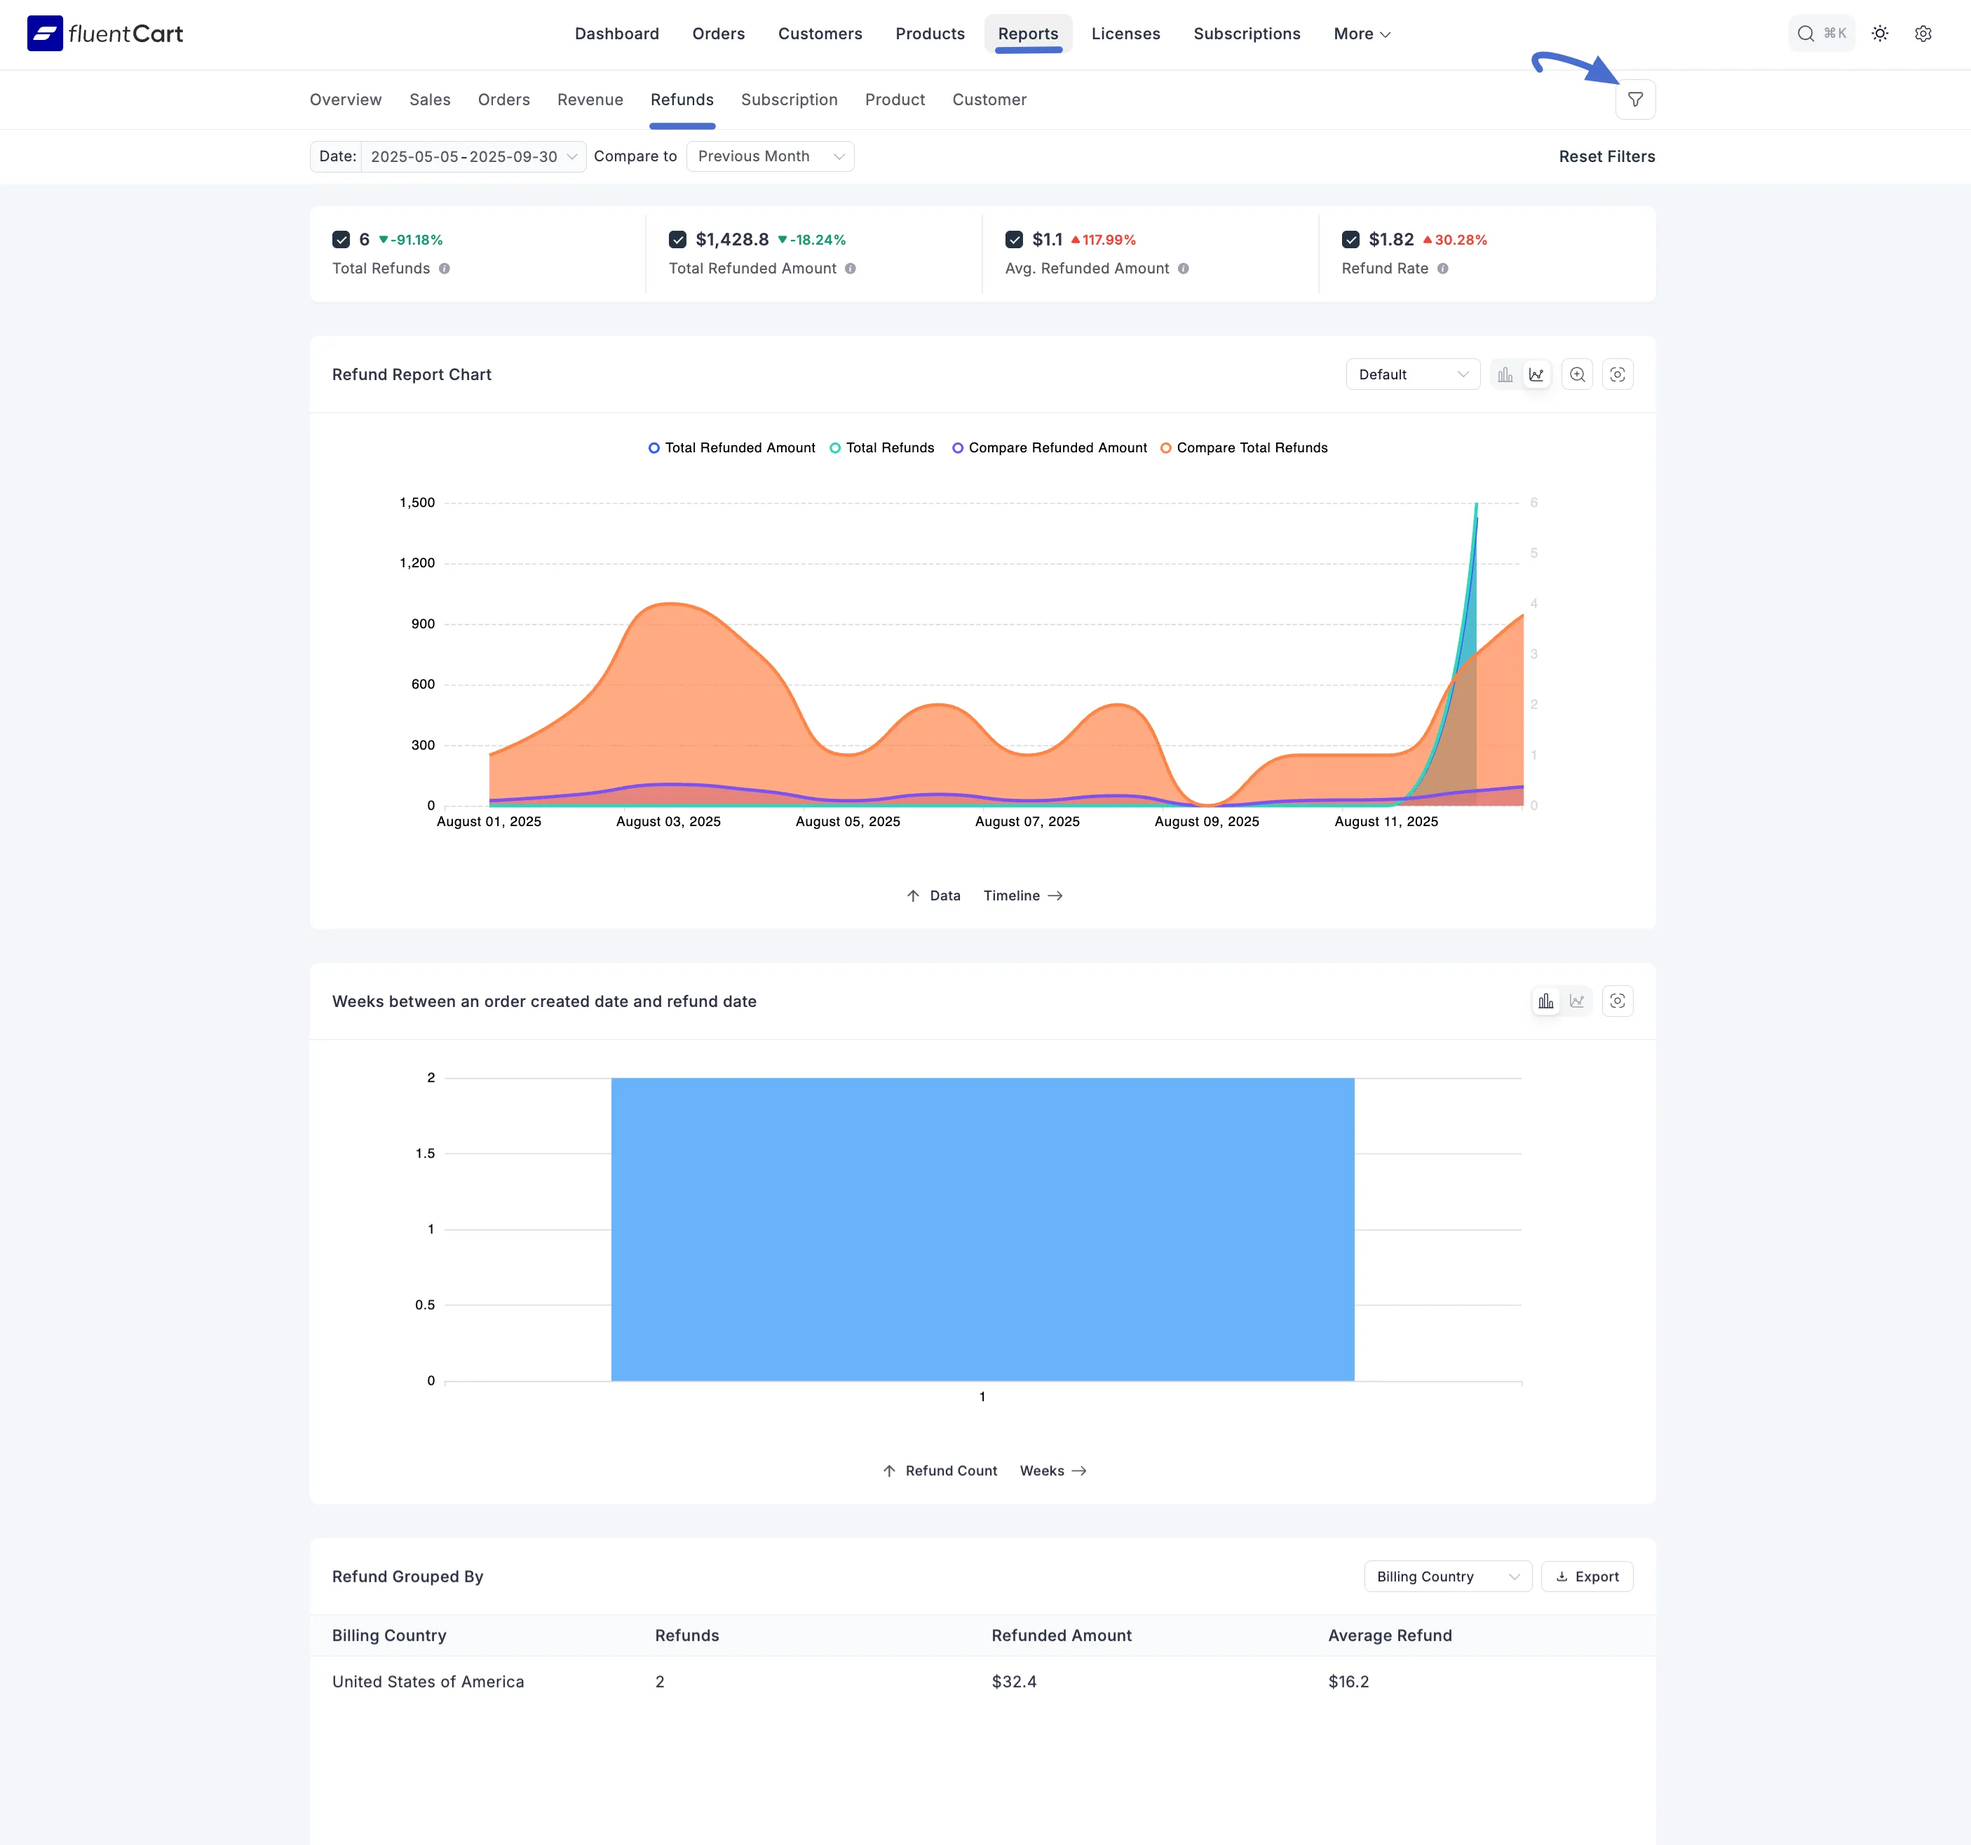
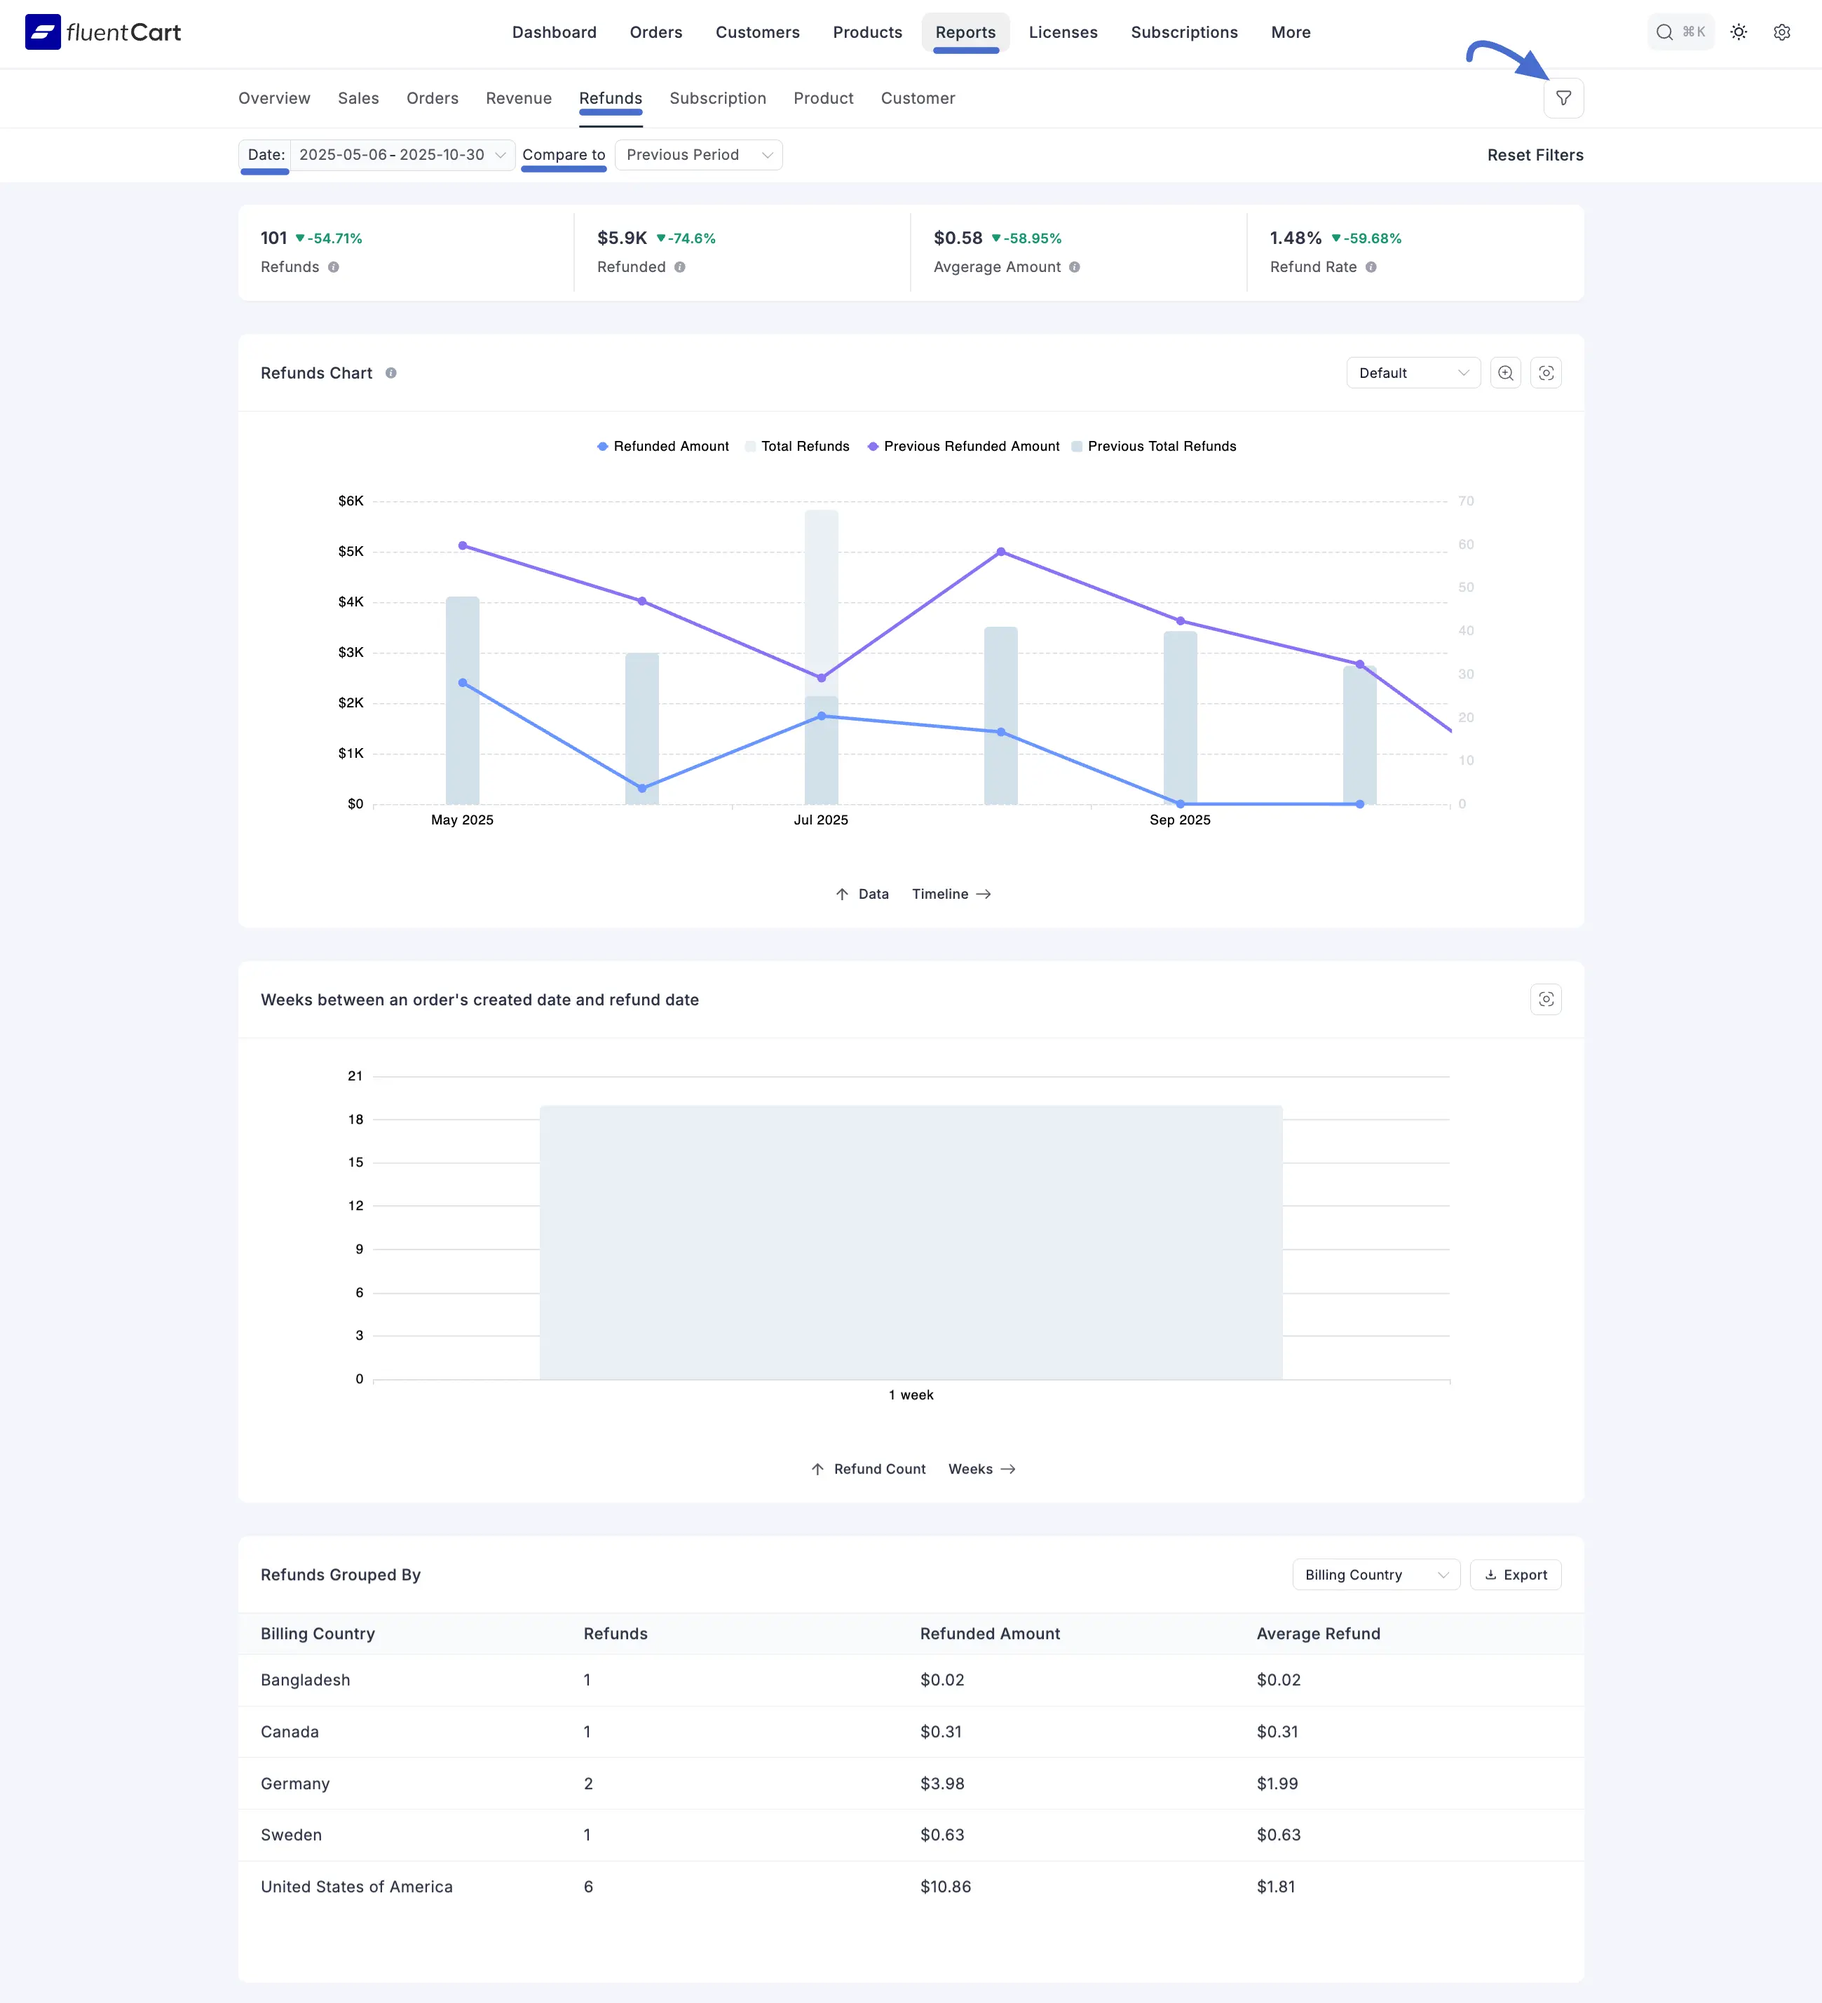
update Refund Report doc
Refunds Report doc description update and image change

diff --git a/guide/reporting-analytics/refunds-report.md b/guide/reporting-analytics/refunds-report.md
@@ -21,14 +21,14 @@ The top of the dashboard gives you key controls to choose what data appears in y
 
 At the top of the **Refunds Report**, you will find summary cards highlighting your key refund metrics for the selected period.
 
-* **Total Refunds:** This figure displays the total number of individual refund transactions processed.
-* **Total Refunded Amount:** This shows the total amount of money refunded to customers. For example, if you refunded $200 and $150, the total refunded amount is $350.
-* **Avg. Refunded Amount:** This calculates the average value of a single refund transaction.
+* **Refunds:** This figure displays the total number of individual refund transactions processed.
+* **Refunded:** This shows the total amount of money refunded to customers. For example, if you refunded $200 and $150, the total refunded amount is $350.
+* **Avgerage Amount:** This calculates the average value of a single refund transaction.
 * **Refund Rate:** This key metric shows the percentage of orders that resulted in a refund.
 
 Each metric also shows a percentage, telling you whether the value went up or down compared to the period you selected for comparison.
 
-#### Refund Report Chart
+#### Refunds Chart
 
 The main chart on this dashboard is the **Refund Report Chart**. It’s an area chart that helps you easily spot refund trends.
 
@@ -40,6 +40,6 @@ Below the main chart, you’ll find more detailed breakdowns that show the data 
 
 * **Weeks between an order created date and refund date:** This bar chart shows how long it takes for customers to request refunds. It helps you see if problems happen right away or later.
 
-* **Refund Grouped By:** This table breaks down refunds by things like **Billing Country**. It shows the number of **Refunds**, the total **Refunded Amount**, and the **Average Refund**, helping you find patterns in specific regions or customer groups.
+* **Refunds Grouped By:** This table breaks down refunds by things like **Billing Country**. It shows the number of **Refunds**, the total **Refunded Amount**, and the **Average Refund**, helping you find patterns in specific regions or customer groups.
 
 The Refunds Report goes deeper than sales data, showing you the reasons behind customer returns so you can improve your products and services.
